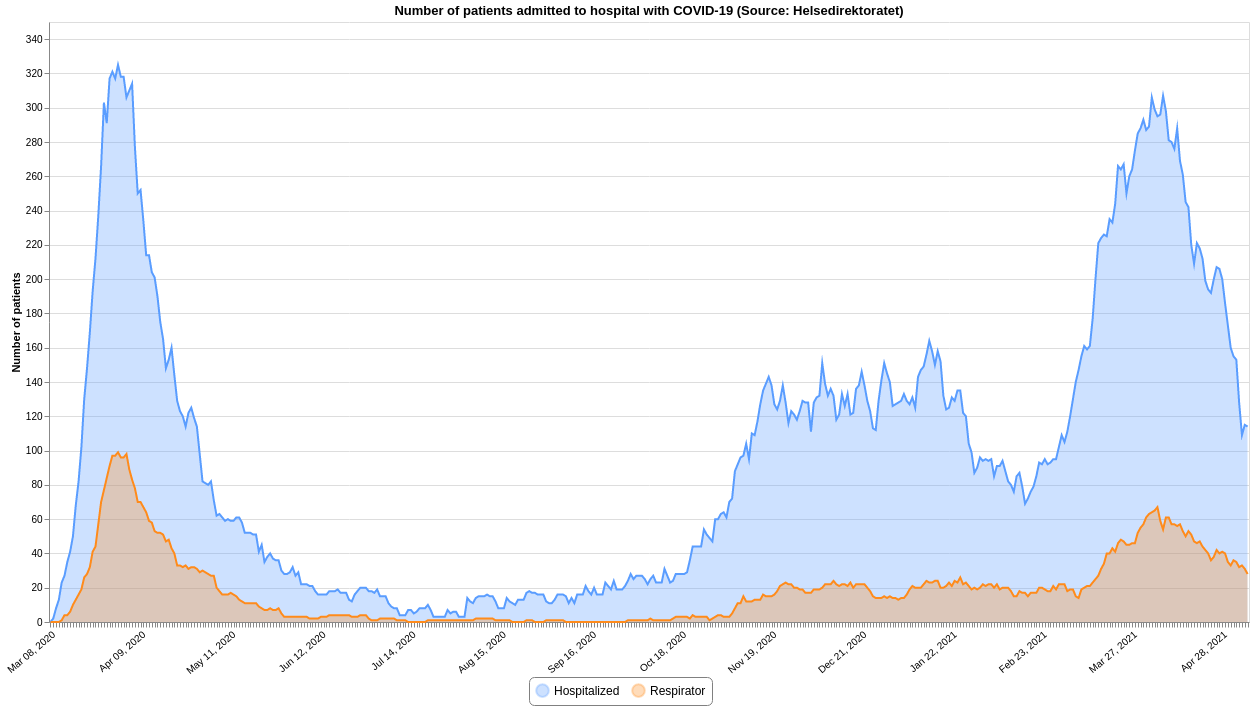
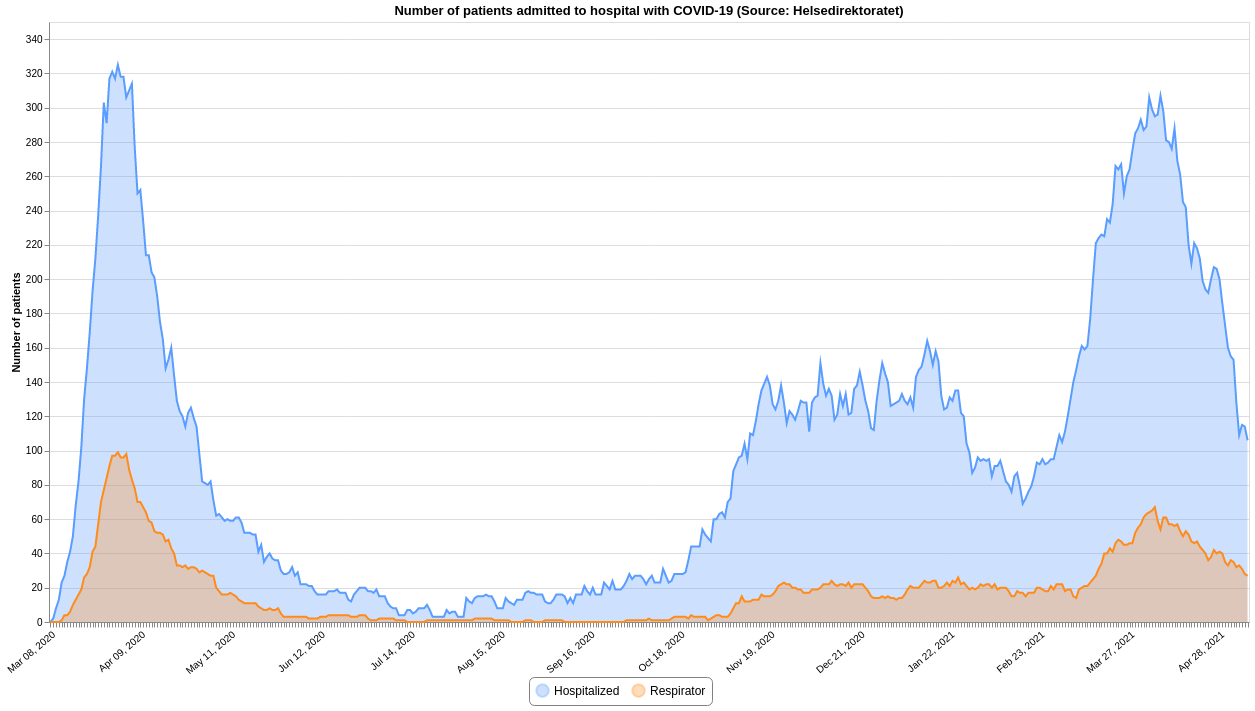
Updated 2021-05-08 13:00

diff --git a/README.md b/README.md
@@ -12,7 +12,7 @@ This repository contains datasets of daily time-series data related to COVID-19 
 | :--- | :--- | :--- | :--- | :--- |
 |[Confirmed](#confirmedcsv)|FHI / MSIS|2021-05-08 00:10:51+02:00|[<center>csv</center>](https://raw.githubusercontent.com/frefrik/c19norge-data/main/data/confirmed.csv)|[<center>preview</center>](data/confirmed.csv)|
 |[Dead](#deadcsv)|FHI|2021-05-07 13:20:50+02:00|[<center>csv</center>](https://raw.githubusercontent.com/frefrik/c19norge-data/main/data/dead.csv)|[<center>preview</center>](data/dead.csv)|
-|[Hospitalized](#hospitalizedcsv)|Helsedirektoratet|2021-05-07 13:00:52+02:00|[<center>csv</center>](https://raw.githubusercontent.com/frefrik/c19norge-data/main/data/hospitalized.csv)|[<center>preview</center>](data/hospitalized.csv)|
+|[Hospitalized](#hospitalizedcsv)|Helsedirektoratet|2021-05-08 13:00:45+02:00|[<center>csv</center>](https://raw.githubusercontent.com/frefrik/c19norge-data/main/data/hospitalized.csv)|[<center>preview</center>](data/hospitalized.csv)|
 |[Tested](#testedcsv)|FHI|2021-05-07 13:00:50+02:00|[<center>csv</center>](https://raw.githubusercontent.com/frefrik/c19norge-data/main/data/tested.csv)|[<center>preview</center>](data/tested.csv)|
 |[Tested Lab](#tested_labcsv)|FHI|2021-05-07 13:20:46+02:00|[<center>csv</center>](https://raw.githubusercontent.com/frefrik/c19norge-data/main/data/tested_lab.csv)|[<center>preview</center>](data/tested_lab.csv)|
 |[Transport](#transportcsv)|FHI|2021-05-05 16:50:51+02:00|[<center>csv</center>](https://raw.githubusercontent.com/frefrik/c19norge-data/main/data/transport.csv)|[<center>preview</center>](data/transport.csv)|
